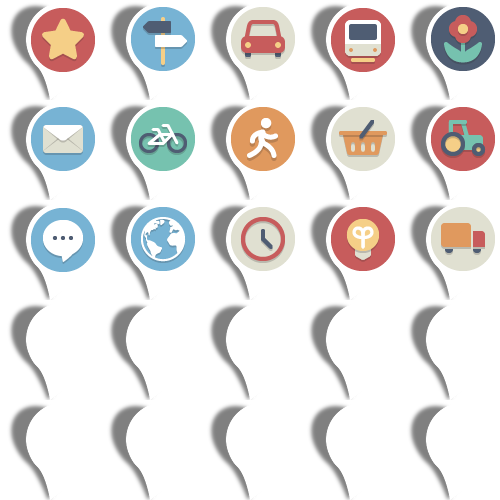
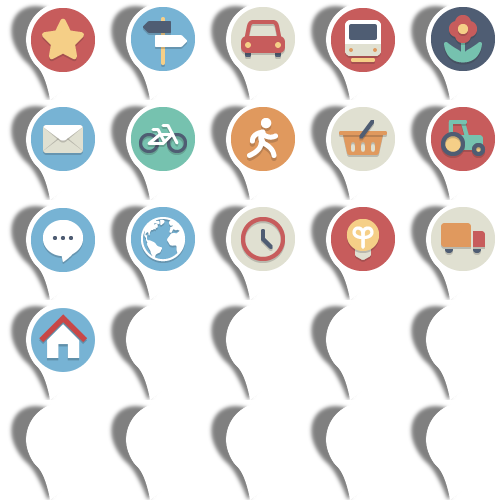
add "Add Building levels" quests

Changed region(s): [[0.06, 0.6, 0.21, 0.75]]

diff --git a/app/src/main/java/de/westnordost/streetcomplete/quests/building_levels/AddBuildingLevelsForm.java b/app/src/main/java/de/westnordost/streetcomplete/quests/building_levels/AddBuildingLevelsForm.java
@@ -1,0 +1,65 @@
+package de.westnordost.streetcomplete.quests.building_levels;
+
+import android.os.Bundle;
+import android.view.LayoutInflater;
+import android.view.View;
+import android.view.ViewGroup;
+import android.widget.EditText;
+
+import de.westnordost.streetcomplete.R;
+import de.westnordost.streetcomplete.quests.AbstractQuestAnswerFragment;
+
+public class AddBuildingLevelsForm extends AbstractQuestAnswerFragment
+{
+	public static final String BUILDING_LEVELS = "building_levels";
+	public static final String ROOF_LEVELS = "roof_levels";
+
+	private EditText levelsInput, roofLevelsInput;
+
+	@Override public View onCreateView(LayoutInflater inflater, ViewGroup container,
+									   Bundle savedInstanceState)
+	{
+		View view = super.onCreateView(inflater, container, savedInstanceState);
+
+		setTitle();
+
+		View contentView = setContentView(R.layout.quest_building_levels);
+
+		levelsInput = (EditText) contentView.findViewById(R.id.levelsInput);
+		roofLevelsInput = (EditText) contentView.findViewById(R.id.roofLevelsInput);
+
+		return view;
+	}
+
+	private void setTitle()
+	{
+		if(getOsmElement().getTags().containsKey("building:part"))
+		{
+			setTitle(R.string.quest_buildingLevels_title_buildingPart);
+		}
+		else
+		{
+			setTitle(R.string.quest_buildingLevels_title);
+		}
+	}
+
+	@Override protected void onClickOk()
+	{
+		Bundle answer = new Bundle();
+		// the form asks for "levels in total" because it is more intuitive to ask but OSM expects
+		// the building:levels to not include the roof
+		int totalBuildingLevels = Integer.parseInt(levelsInput.getText().toString());
+		int roofLevels = Integer.parseInt(roofLevelsInput.getText().toString());
+		int buildingLevels =  totalBuildingLevels - roofLevels; // without roof
+
+		answer.putInt(BUILDING_LEVELS, buildingLevels);
+		answer.putInt(ROOF_LEVELS, roofLevels);
+		applyAnswer(answer);
+	}
+
+	@Override public boolean hasChanges()
+	{
+		return !levelsInput.getText().toString().isEmpty() ||
+		       !roofLevelsInput.getText().toString().isEmpty();
+	}
+}

diff --git a/app/src/main/java/de/westnordost/streetcomplete/quests/building_levels/AddBuildingLevels.java b/app/src/main/java/de/westnordost/streetcomplete/quests/building_levels/AddBuildingLevels.java
@@ -1,0 +1,44 @@
+package de.westnordost.streetcomplete.quests.building_levels;
+
+import android.os.Bundle;
+
+import de.westnordost.streetcomplete.R;
+import de.westnordost.streetcomplete.data.QuestImportance;
+import de.westnordost.streetcomplete.data.osm.OverpassQuestType;
+import de.westnordost.streetcomplete.data.osm.changes.StringMapChangesBuilder;
+import de.westnordost.streetcomplete.quests.AbstractQuestAnswerFragment;
+
+public class AddBuildingLevels extends OverpassQuestType
+{
+	@Override
+	protected String getTagFilters()
+	{
+		return " ways, relations with (" +
+		       " building ~ house|residential|apartments|detached|terrace|farm|hotel|dormitory|houseboat|" +
+							"school|civic|college|university|public|hospital|kindergarten|transportation|train_station|"+
+							"retail|commercial|warehouse|industrial|manufacture" +
+		       " or building:part " +
+		       " ) and !building:levels and !height";
+	}
+
+	@Override
+	public int importance()
+	{
+		return QuestImportance.MINOR;
+	}
+
+	public AbstractQuestAnswerFragment createForm()
+	{
+		return new AddBuildingLevelsForm();
+	}
+
+	public Integer applyAnswerTo(Bundle answer, StringMapChangesBuilder changes)
+	{
+		changes.add("building:levels", ""+answer.getInt(AddBuildingLevelsForm.BUILDING_LEVELS));
+		changes.addOrModify("roof:levels", ""+answer.getInt(AddBuildingLevelsForm.ROOF_LEVELS));
+
+		return R.string.quest_buildingLevels_commitMessage;
+	}
+
+	@Override public String getIconName() {	return "house"; }
+}

diff --git a/app/src/main/java/de/westnordost/streetcomplete/data/QuestTypes.java b/app/src/main/java/de/westnordost/streetcomplete/data/QuestTypes.java
@@ -7,6 +7,7 @@ import java.util.HashMap;
 import java.util.List;
 import java.util.Map;
 
+import de.westnordost.streetcomplete.quests.building_levels.AddBuildingLevels;
 import de.westnordost.streetcomplete.quests.opening_hours.AddOpeningHours;
 import de.westnordost.streetcomplete.quests.road_name.AddRoadName;
 
@@ -20,7 +21,8 @@ public class QuestTypes
 	public static QuestType[] TYPES = new QuestType[]
 	{
 		new AddRoadName(),
-		new AddOpeningHours()
+		new AddOpeningHours(),
+		new AddBuildingLevels(),
 	};
 
 	private final List<QuestType> types;

diff --git a/app/src/main/java/de/westnordost/streetcomplete/data/osm/changes/StringMapChangesBuilder.java b/app/src/main/java/de/westnordost/streetcomplete/data/osm/changes/StringMapChangesBuilder.java
@@ -50,6 +50,19 @@ public class StringMapChangesBuilder
 		changes.put(key, new StringMapEntryModify(key, valueBefore, value));
 	}
 
+	public void addOrModify(@NonNull String key, @NonNull String value)
+	{
+		String valueBefore = source.get(key);
+		if(valueBefore == null)
+		{
+			add(key, value);
+		}
+		else
+		{
+			modify(key, value);
+		}
+	}
+
 	public String getPreviousValue(@NonNull String key)
 	{
 		return source.get(key);

diff --git a/app/src/main/java/de/westnordost/streetcomplete/tangram/MapFragment.java b/app/src/main/java/de/westnordost/streetcomplete/tangram/MapFragment.java
@@ -9,7 +9,6 @@ import android.preference.PreferenceManager;
 import android.support.annotation.NonNull;
 import android.support.annotation.Nullable;
 import android.support.v13.app.FragmentCompat;
-import android.util.Log;
 import android.view.LayoutInflater;
 import android.view.View;
 import android.view.ViewGroup;
